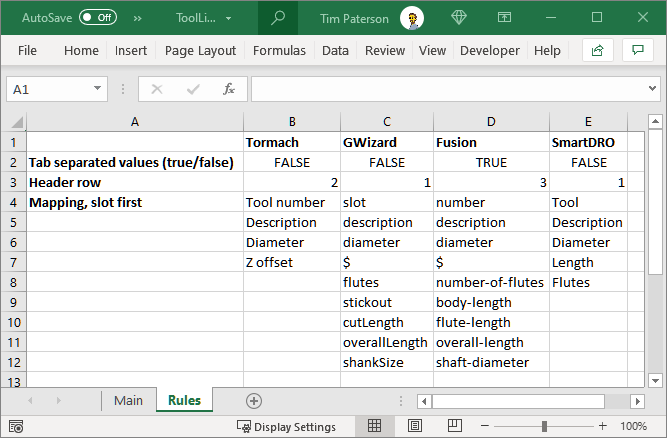
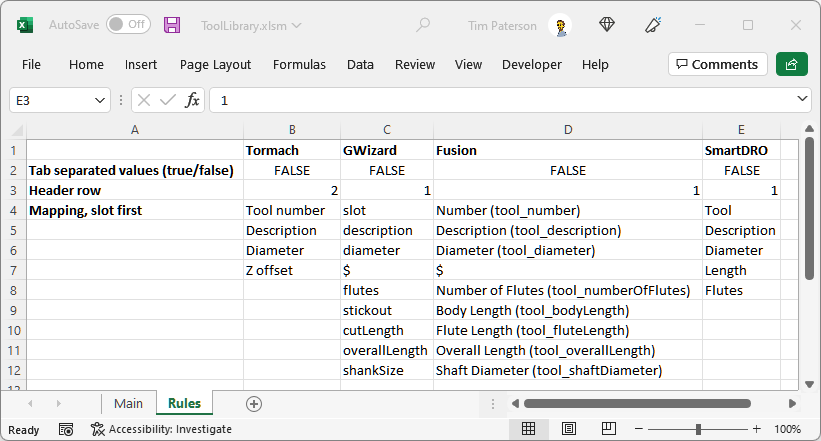
Adjust rules for Fusion 360 change to CSV format

diff --git a/README.md b/README.md
@@ -21,9 +21,9 @@ Excel:
 
 ![Main Screen](https://raw.githubusercontent.com/TimPaterson/CNC-Tool-Library-Manager/master/ReadmeImages/MainScreen.png)
 
-Excel applies two layers of security to prevent malicious macros in a
-downloaded file from running. First you need to click "Enable Editing",
-then "Enable Content" as shown in the screen shot.
+Excel applies multiple layers of security to prevent malicious macros in a
+downloaded file from running. As the specifics change from version to
+version, consult Microsoft Office documentation to fully enable macros.
 
 Tool Library Manager comes with four sets of rules:
 
@@ -74,10 +74,10 @@ these basic requirements:
 + The file has a row of column names (not necessarily the first row).
 + The rows after the column name row are the tool values.
 
-One limitation is that Excel cannot export to TSV format. Fusion 360,
-for example, uses TSV format so it is a one-way translation. This
-works fine if Fusion 360 is the master tool list and never needs
-updating from another source.
+One limitation is that Excel cannot export to TSV format. In that
+case, the TSV source could be used as the master tool list that is not
+updated from another source. (Fusion 360 has transitioned to CSV,
+but this limitation would apply if you were using their old TSV format.)
 
 Here is a look at the rule table:
 
